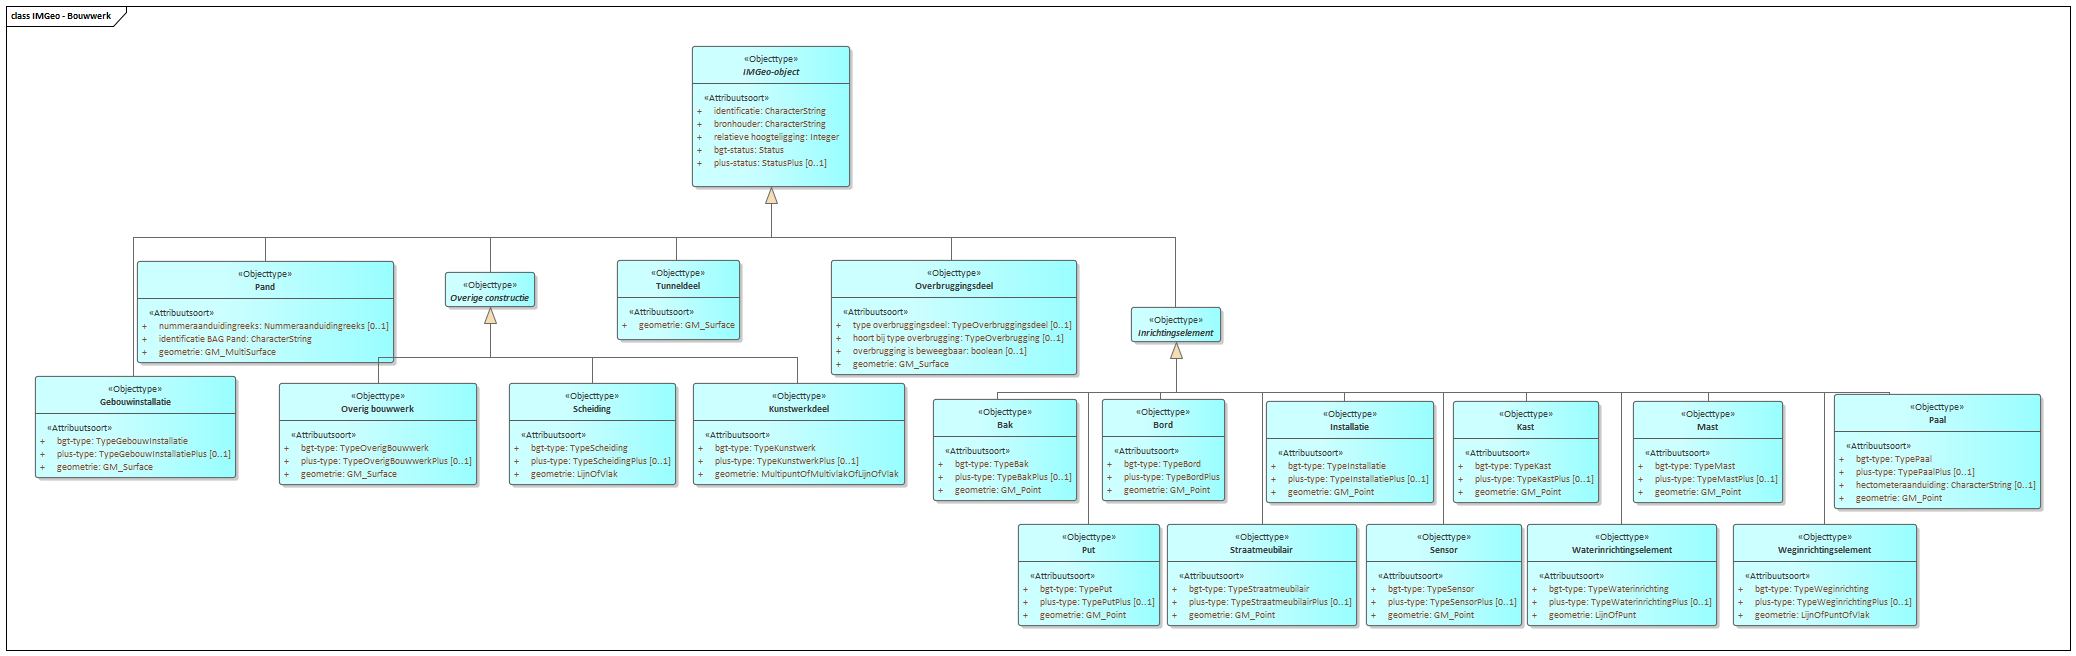
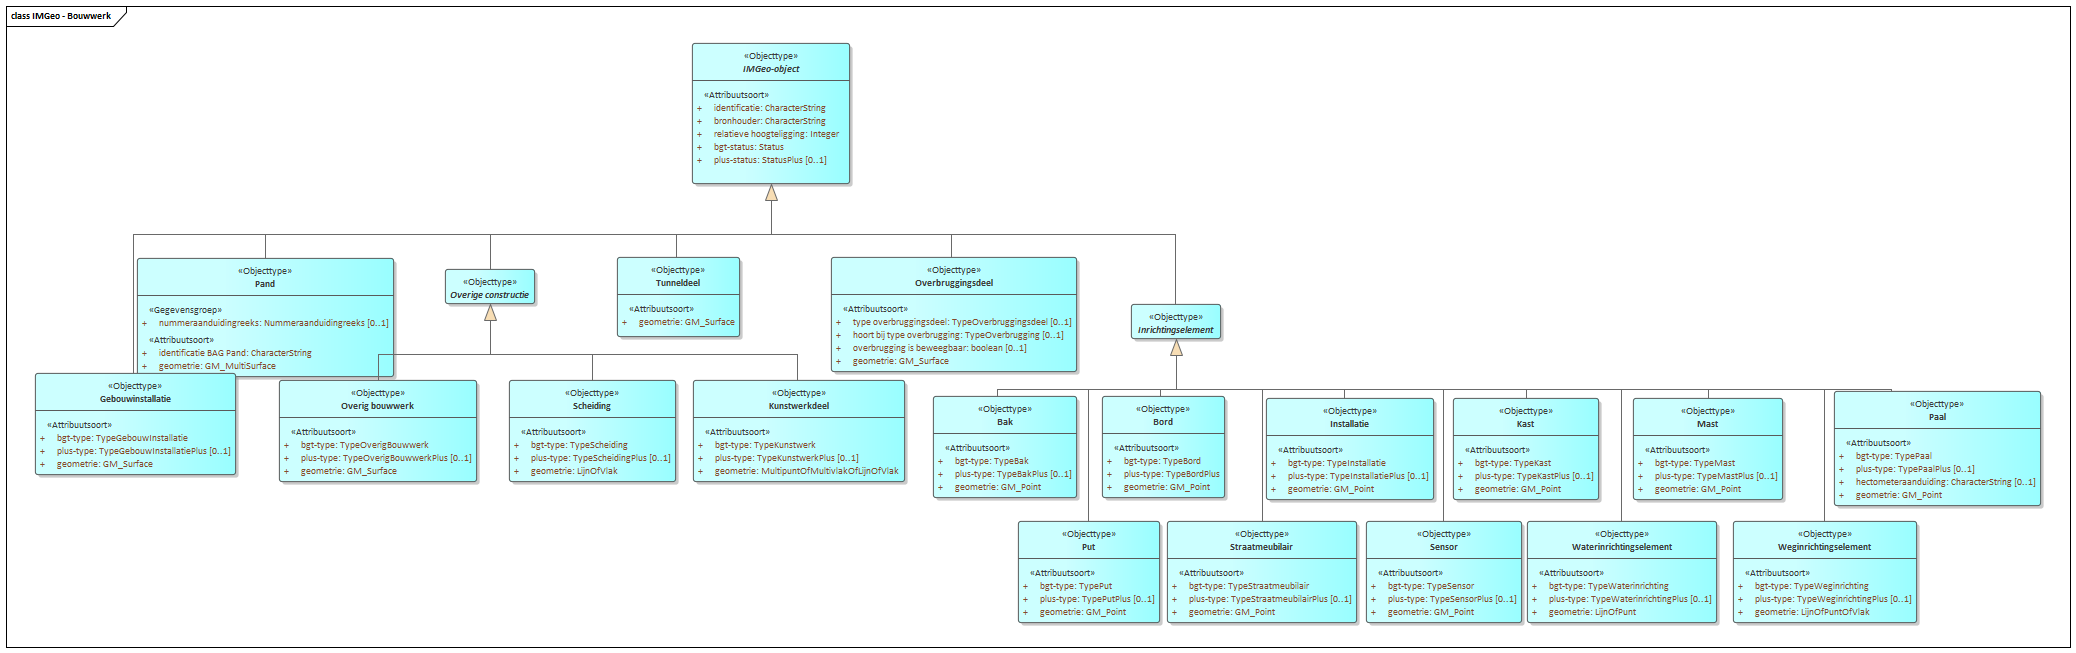
MIMCM-InformatiemodelGeografieIMGeo-conceptueel-1.0-0-20200701-20201215-135643

diff --git a/data/IMGeoMIM-cat.respec.html b/data/IMGeoMIM-cat.respec.html
@@ -1,7 +1,7 @@
 
 <section id="cat" class="normative">
    <h2>Gegevensdefinitie</h2>
-   <!--MIMCM-InformatiemodelGeografieIMGeo-conceptueel-1.0-0-20200701-20201125-103816 imvertor 1.62.1-->
+   <!--MIMCM-InformatiemodelGeografieIMGeo-conceptueel-1.0-0-20200701-20201215-135643 imvertor 1.62.2-->
    <section id="EAID_5FD075D2_9C53_4d36_8A79_415F3AE02764">
       <h3>Diagram   IMGeo - overzicht</h3>
       <div class="imageinfo overview"><img src="data/Images/EAID_5FD075D2_9C53_4d36_8A79_415F3AE02764.png" usemap="#imagemap-EAID_5FD075D2_9C53_4d36_8A79_415F3AE02764" alt="Diagram "><map name="imagemap-EAID_5FD075D2_9C53_4d36_8A79_415F3AE02764"><area shape="rect" alt="Mast" coords="1470,310,1560,345" href="#graph_EAID_33BF6667_AC76_4662_AB8F_169A9AEFBD03"><area shape="rect" alt="Kast" coords="1352,310,1442,345" href="#graph_EAID_0EAD1532_141C_41b0_A472_3A0E5395603F"><area shape="rect" alt="Plaatsbepalingspunt" coords="94,355,184,390" href="#graph_EAID_DD0900EA_0BAE_41e2_ADB3_B27B64B63058"><area shape="rect" alt="Wijk" coords="537,430,627,465" href="#graph_EAID_C5AD7221_FCA8_4248_AFD7_12555C772918"><area shape="rect" alt="Waterschap" coords="404,430,494,465" href="#graph_EAID_0F635A09_02C4_4a55_95BA_FB9B8C540310"><area shape="rect" alt="Stadsdeel" coords="609,367,699,402" href="#graph_EAID_FB7077BC_A5C7_4eb0_B812_9FF5E68EBD68"><area shape="rect" alt="Openbare ruimte" coords="334,367,424,402" href="#graph_EAID_554DD1BA_09D6_4b59_A10B_5EFAF21F380A"><area shape="rect" alt="Buurt" coords="459,367,549,402" href="#graph_EAID_64E8E751_2C46_40c4_AC41_34F5C525D06B"><area shape="rect" alt="Registratief gebied" coords="459,267,549,302" href="#graph_EAID_5E1F5FB9_69EA_4484_BFB5_EA9852E28158"><area shape="rect" alt="Waterinrichtingselement" coords="1401,356,1509,391" href="#graph_EAID_58AFC5DF_8F7B_42fd_BF65_081A53C5DF4E"><area shape="rect" alt="Vegetatie object" coords="353,206,443,241" href="#graph_EAID_AF1CAF23_1DA8_4cd5_8F9E_47FB11B51D4E"><area shape="rect" alt="Straatmeubilair" coords="1192,356,1282,391" href="#graph_EAID_349FB63B_2993_4228_A535_E3D48A05B7FF"><area shape="rect" alt="Put" coords="1086,356,1176,391" href="#graph_EAID_8AF8550A_4C5D_421f_A2E9_84EE5CA78BA0"><area shape="rect" alt="Paal" coords="1585,310,1675,345" href="#graph_EAID_1C5D6A3E_E4D5_44b8_85EA_54355E8AE2F5"><area shape="rect" alt="Installatie" coords="1243,310,1333,345" href="#graph_EAID_160CB003_2693_4c89_B36C_394617C684D5"><area shape="rect" alt="Gebouwinstallatie" coords="778,222,868,257" href="#graph_EAID_B6E894DE_953B_4911_83D2_F449AE1E4A0B"><area shape="rect" alt="Bord" coords="1138,310,1228,345" href="#graph_EAID_11151DAB_9A17_45ba_AE6C_F3152D2ADCF5"><area shape="rect" alt="Bak" coords="1027,310,1117,345" href="#graph_EAID_70086FC7_9479_427e_92C6_683F7CC4C93C"><area shape="rect" alt="Inrichtingselement" coords="1027,208,1118,243" href="#graph_EAID_CA79D5DA_E6D4_4bc8_8597_5B50A56DAF42"><area shape="rect" alt="Openbare ruimte label" coords="202,355,301,390" href="#graph_EAID_393A1EC3_555D_4a33_91F8_599F9CCCFBC8"><area shape="rect" alt="Functioneel gebied" coords="654,267,744,302" href="#graph_EAID_AD18C881_A1D6_4adb_949E_37D29D09E538"><area shape="rect" alt="Scheiding" coords="900,331,990,366" href="#graph_EAID_7758B10D_C94A_45f9_8C7A_133D2EC0AD87"><area shape="rect" alt="Tunneldeel" coords="899,208,989,243" href="#graph_EAID_A6159626_DB05_46e4_9726_773CA218328D"><area shape="rect" alt="Overbruggingsdeel" coords="956,160,1046,195" href="#graph_EAID_EF4F6DCD_F658_47b6_BC18_672638D740C3"><area shape="rect" alt="Kunstwerkdeel" coords="956,267,1046,302" href="#graph_EAID_69BCE102_6A99_445b_95C4_6DEE700870AD"><area shape="rect" alt="Overige constructie" coords="835,160,924,195" href="#graph_EAID_FA6301E5_2D0F_4cd1_B09E_AA2BB2B23D20"><area shape="rect" alt="Overig bouwwerk" coords="835,275,924,310" href="#graph_EAID_AC51AD8C_5710_46e8_A302_49C26E248CF7"><area shape="rect" alt="Pand" coords="723,160,813,195" href="#graph_EAID_4B1215E2_D03D_47e6_A00A_8968C2F47DF6"><area shape="rect" alt="Ondersteunend waterdeel" coords="550,206,686,241" href="#graph_EAID_285456F8_B7BE_4a0b_A732_0CB3B01F9E09"><area shape="rect" alt="Waterdeel" coords="519,158,609,193" href="#graph_EAID_99BF045C_F962_4396_8CEC_C356BADD9F5B"><area shape="rect" alt="Onbegroeid terreindeel" coords="263,158,385,193" href="#graph_EAID_96FDB788_BB53_4d7b_8726_310DF716EC45"><area shape="rect" alt="Begroeid terreindeel" coords="404,158,494,193" href="#graph_EAID_3AD903EB_DBC0_4c1c_B30F_2A69E2B82000"><area shape="rect" alt="Sensor" coords="1297,356,1387,391" href="#graph_EAID_BAE5E52D_81F4_46ea_AD00_A7521A6904CC"><area shape="rect" alt="Weginrichtingselement" coords="1523,356,1624,391" href="#graph_EAID_607E5D78_4925_421e_9656_4B0BA6262C21"><area shape="rect" alt="Spoor" coords="159,158,249,193" href="#graph_EAID_9A73030A_894B_44f0_8474_9A2776626FB0"><area shape="rect" alt="Ondersteunend wegdeel" coords="77,206,202,241" href="#graph_EAID_09E25A4C_C1C7_41e5_8C2D_942054F01D9E"><area shape="rect" alt="IMGeo-object" coords="449,46,587,98" href="#graph_EAID_1B21E16C_9E4C_4c8d_8CB5_1E35B41243EB"><area shape="rect" alt="Wegdeel" coords="35,158,125,193" href="#graph_EAID_141C517B_0337_4a8c_948C_516F063454FE"></map><p><b>IMGeo - overzicht</b></p>
@@ -1145,19 +1145,6 @@
                </tr>
                <tr>
                   <td>
-                     nummeraanduidingreeks
-                     </td>
-                  <td>
-                     
-                     <p>Bevat de reeks nummeraanduidingen behorend bij het pand ten behoeve van visualisatie.</p>
-                     </td>
-                  <td>
-                     Nummeraanduidingreeks
-                     </td>
-                  <td>0 .. 1</td>
-               </tr>
-               <tr>
-                  <td>
                      <a class="link" href="#detail_attribute_InformatiemodelGeografieIMGeo_Pand_identificatieBAGPand">identificatie BAG Pand</a>
                      </td>
                   <td>
@@ -1181,6 +1168,59 @@
                      GM_MultiSurface
                      </td>
                   <td>1</td>
+               </tr>
+               <tr>
+                  <td>
+                     <a class="link" href="#detail_class_InformatiemodelGeografieIMGeo_Nummeraanduidingreeks">nummeraanduidingreeks (Nummeraanduidingreeks)</a>
+                     :</td>
+                  <td>
+                     
+                     <p>Samengesteld attribuut ten behoeve van opname van een reeks nummeraanduidingen van
+                        verblijfsobjecten in een pand.</p>
+                     </td>
+                  <td></td>
+                  <td>0 .. 1</td>
+               </tr>
+               <tr>
+                  <td>- 
+                     nummeraanduidingreeks
+                     </td>
+                  <td>
+                     
+                     <p>Bevat de reeks nummeraanduidingen behorend bij het pand ten behoeve van visualisatie.</p>
+                     </td>
+                  <td>
+                     Label
+                     </td>
+                  <td>1</td>
+               </tr>
+               <tr>
+                  <td>- 
+                     <a class="link" href="#detail_attribute_InformatiemodelGeografieIMGeo_Nummeraanduidingreeks_identificatieBAGVBOLaagsteHuisnummer">identificatie BAG VBO laagste huisnummer</a>
+                     </td>
+                  <td>
+                     
+                     <p>Identificatie in de BAG registratie van het verblijfsobject met het laagste huisnummer
+                        behorende tot de reeks.</p>
+                     </td>
+                  <td>
+                     CHARACTERSTRING
+                     </td>
+                  <td>1</td>
+               </tr>
+               <tr>
+                  <td>- 
+                     <a class="link" href="#detail_attribute_InformatiemodelGeografieIMGeo_Nummeraanduidingreeks_identificatieBAGVBOHoogsteHuisnummer">identificatie BAG VBO hoogste huisnummer</a>
+                     </td>
+                  <td>
+                     
+                     <p>Identificatie in de BAG registratie van het verblijfsobject met het hoogste huisnummer
+                        behorende tot de reeks.</p>
+                     </td>
+                  <td>
+                     CHARACTERSTRING
+                     </td>
+                  <td>0 .. 1</td>
                </tr>
             </tbody>
          </table>
@@ -7104,10 +7144,6 @@
                               <td>tekst</td>
                            </tr>
                            <tr>
-                              <th>Herkomst</th>
-                              <td>BGT</td>
-                           </tr>
-                           <tr>
                               <th>Definitie</th>
                               <td>
                                  
@@ -7115,28 +7151,21 @@
                                  </td>
                            </tr>
                            <tr>
-                              <th>Herkomst definitie</th>
-                              <td>BGT</td>
-                           </tr>
-                           <tr>
                               <th>Toelichting</th>
-                              <td>Een inhoudelijke toelichting op de gegevensgroep.</td>
+                              <td>Een inhoudelijke toelichting op de toepassing van het informatie-element.</td>
                            </tr>
                            <tr>
-                              <th>Indicatie materiële historie</th>
+                              <th>Mogelijk geen waarde</th>
                               <td>Nee</td>
-                           </tr>
-                           <tr>
-                              <th>Indicatie formele historie</th>
-                              <td>Ja</td>
                            </tr>
                            <tr>
                               <th>Kardinaliteit</th>
                               <td>1</td>
                            </tr>
                            <tr>
-                              <th>Indicatie authentiek</th>
-                              <td>Authentiek</td>
+                              <th>Patroon</th>
+                              <td>De verzameling van waarden die gegevens van dit attribuutsoort kunnen hebben, dat
+                                 wil zeggen het waardenbereik, uitgedrukt in een specifieke structuur.</td>
                            </tr>
                            <tr>
                               <th>Type</th>
@@ -7295,10 +7324,6 @@
                            <td>identificatie BAG VBO laagste huisnummer</td>
                         </tr>
                         <tr>
-                           <th>Herkomst</th>
-                           <td>BGT</td>
-                        </tr>
-                        <tr>
                            <th>Definitie</th>
                            <td>
                               
@@ -7307,28 +7332,21 @@
                               </td>
                         </tr>
                         <tr>
-                           <th>Herkomst definitie</th>
-                           <td>BGT</td>
-                        </tr>
-                        <tr>
                            <th>Toelichting</th>
-                           <td>Een inhoudelijke toelichting op de gegevensgroep.</td>
+                           <td>Een inhoudelijke toelichting op de toepassing van het informatie-element.</td>
                         </tr>
                         <tr>
-                           <th>Indicatie materiële historie</th>
+                           <th>Mogelijk geen waarde</th>
                            <td>Nee</td>
-                        </tr>
-                        <tr>
-                           <th>Indicatie formele historie</th>
-                           <td>Ja</td>
                         </tr>
                         <tr>
                            <th>Kardinaliteit</th>
                            <td>1</td>
                         </tr>
                         <tr>
-                           <th>Indicatie authentiek</th>
-                           <td>Authentiek</td>
+                           <th>Patroon</th>
+                           <td>De verzameling van waarden die gegevens van dit attribuutsoort kunnen hebben, dat
+                              wil zeggen het waardenbereik, uitgedrukt in een specifieke structuur.</td>
                         </tr>
                         <tr>
                            <th>Type</th>
@@ -7349,10 +7367,6 @@
                            <td>identificatie BAG VBO hoogste huisnummer</td>
                         </tr>
                         <tr>
-                           <th>Herkomst</th>
-                           <td>BGT</td>
-                        </tr>
-                        <tr>
                            <th>Definitie</th>
                            <td>
                               
@@ -7361,28 +7375,21 @@
                               </td>
                         </tr>
                         <tr>
-                           <th>Herkomst definitie</th>
-                           <td>BGT</td>
-                        </tr>
-                        <tr>
                            <th>Toelichting</th>
-                           <td>Een inhoudelijke toelichting op de gegevensgroep.</td>
+                           <td>Een inhoudelijke toelichting op de toepassing van het informatie-element.</td>
                         </tr>
                         <tr>
-                           <th>Indicatie materiële historie</th>
+                           <th>Mogelijk geen waarde</th>
                            <td>Nee</td>
-                        </tr>
-                        <tr>
-                           <th>Indicatie formele historie</th>
-                           <td>Ja</td>
                         </tr>
                         <tr>
                            <th>Kardinaliteit</th>
                            <td>0 .. 1</td>
                         </tr>
                         <tr>
-                           <th>Indicatie authentiek</th>
-                           <td>Authentiek</td>
+                           <th>Patroon</th>
+                           <td>De verzameling van waarden die gegevens van dit attribuutsoort kunnen hebben, dat
+                              wil zeggen het waardenbereik, uitgedrukt in een specifieke structuur.</td>
                         </tr>
                         <tr>
                            <th>Type</th>
@@ -12206,7 +12213,7 @@
 </section>
 <section id="lis" class="normative">
    <h2>Inhoud van waardenlijsten</h2>
-   <!--MIMCM-InformatiemodelGeografieIMGeo-conceptueel-1.0-0-20200701-20201125-103816 imvertor 1.62.1--><a class="anchor" id="graph_EAID_5EFC3C11_5FD1_4cf6_BA9C_27FEDC7E2E0F"></a><a class="anchor" id="detail_class_InformatiemodelGeografieIMGeo_Status"></a><section id="detail_class_InformatiemodelGeografieIMGeo_Status">
+   <!--MIMCM-InformatiemodelGeografieIMGeo-conceptueel-1.0-0-20200701-20201215-135643 imvertor 1.62.2--><a class="anchor" id="graph_EAID_5EFC3C11_5FD1_4cf6_BA9C_27FEDC7E2E0F"></a><a class="anchor" id="detail_class_InformatiemodelGeografieIMGeo_Status"></a><section id="detail_class_InformatiemodelGeografieIMGeo_Status">
       <h3>Enumeratie details  Status</h3>
       
       <table style="width: 100%;" class="list">
